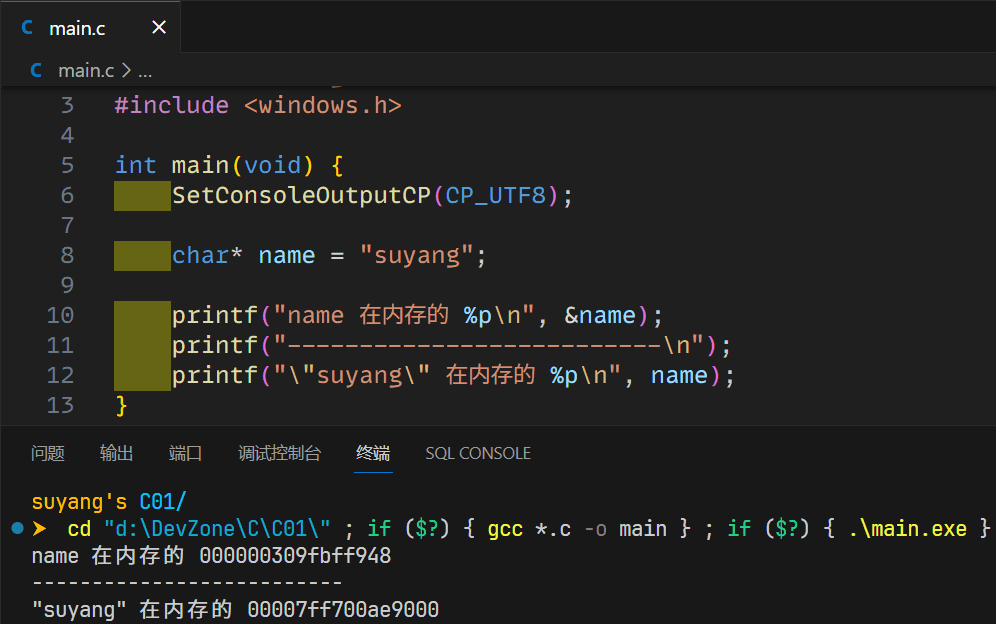
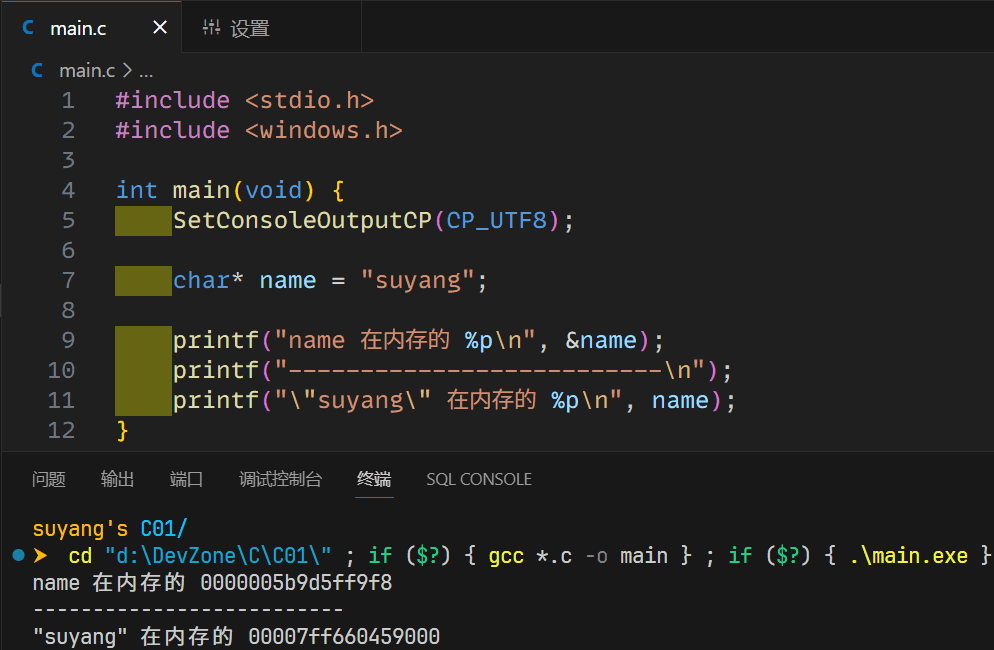
完成C语言数组字符串和指针字符串博客

diff --git a/public/Blogs/博客内容/C语言/数组字符串和指针字符串.html b/public/Blogs/博客内容/C语言/数组字符串和指针字符串.html
@@ -11,7 +11,7 @@
       </p>
       <p class="日期">
         <span class="日期前缀 前缀">日期：</span>
-        <span class="日期文本">待定</span>
+        <span class="日期文本">2024年3月28日</span>
       </p>
     </section>
     <section class="简介信息图像">
@@ -122,18 +122,18 @@
         字符串变量
         <ul class="分区列表">
           <li class="分区列表项">
-            <span class="行内专业名词">数组字符串</span>变量仅可<span
+            <span class="行内专业名词">数组字符串</span>变量就是数组，可<span
               class="强调"
-              >用作</span
-            >指针，但<span class="强调">不是</span
-            >指针类型，因此无法指向其它内存地址，<span class="强调">不可</span
+              >当做</span
+            >指针使用，但<span class="强调">不是</span>指针类型，<span
+              class="强调"
+              >不可</span
             >重新赋值。
           </li>
           <li class="分区列表项">
-            <span class="行内专业名词">指针字符串</span
-            >变量就是指针类型，因此可以指向其它内存地址，<span class="强调"
-              >可以</span
-            >重新赋值。
+            <span class="行内专业名词">指针字符串</span>变量<span class="强调"
+              >是</span
+            >指针类型，<span class="强调">可以</span>重新赋值。
           </li>
         </ul>
       </li>
@@ -147,9 +147,9 @@
             >，可以修改。
           </li>
           <li class="分区列表项">
-            <span class="行内专业名词">数组字符串数据</span>分配在内存<span
+            <span class="行内专业名词">指针字符串数据</span>分配在内存<span
               class="强调"
-              >代码段</span
+              >静态存储区</span
             >，无法修改。
           </li>
         </ul>
@@ -263,6 +263,19 @@
         ><span class="强调">错误: </span>向数组类型赋值</span
       >。<br />这再次证明了<span class="行内代码">name</span>是数组，不是指针。
     </p>
+    <p class="分区普通文本">我们还可以通过输出内存地址来看清楚这一点：</p>
+    <figure class="截图容器">
+      <img
+        src="/Images/Blogs/C语言/数组字符串和指针字符串/数组字符串变量自身地址和保存的地址.png"
+        alt="数组字符串变量自身地址和保存的地址"
+      />
+    </figure>
+    <p class="分区普通文本">
+      <span class="代码">name</span>自身的地址和保存的地址是一致的，说明<span
+        class="行内代码"
+        >name</span
+      >本身就是数组。
+    </p>
 
     <h3 class="分区标题 分区3级标题">修改数组字符串对象</h3>
     <p class="分区普通文本">数组对象分配在内存栈上，因此可以修改：</p>
@@ -311,11 +324,10 @@
     <p class="分区普通文本">
       看起来语法差别不大，但<span class="代码">name</span
       >的本质却不同。这里的<span class="行内代码">name</span
-      >是个真正的指针，它<span class="强调">指向</span
+      >是个真正的指针，分配在内存栈上，它<span class="强调">指向</span
       ><span class="行内代码">"suyang"</span>，但<span class="强调">不是</span
-      ><span class="行内代码">"suyang"</span>。而<span class="代码"
-        >"suyang"</span
-      >对象被分配在内存代码段上，无法修改。
+      ><span class="行内代码">"suyang"</span>。<span class="代码">"suyang"</span
+      >对象被分配在内存静态存储区，无法修改。
     </p>
     <figure class="截图容器">
       <img
@@ -364,12 +376,33 @@
         alt="修改指针字符串变量的本质"
       />
     </figure>
+    <p class="分区普通文本">这段代码可以用动画表示：</p>
+    <figure
+      class="截图容器"
+      style="
+        background:
+          linear-gradient(#5550 0%, #5550 100%) content-box,
+          linear-gradient(#aaa2 0%, #5552 95%) border-box;
+      "
+    >
+      <img
+        src="/Images/Blogs/C语言/数组字符串和指针字符串/修改指针字符串变量动画.webp"
+        alt="修改指针字符串变量动画"
+        style="background-color: #ffffff0a"
+      />
+    </figure>
+    <p class="分区普通文本">
+      修改<span class="代码">name</span>，并没有修改<span class="行内代码"
+        >"suyang"</span
+      >，而是在静态存储区生成一个新字符串<span class="行内代码">"Hacker"</span
+      >并更新<span class="行内代码">name</span>保存的内存地址。
+    </p>
 
     <h3 class="分区标题 分区3级标题">修改指针字符串对象</h3>
     <p class="分区普通文本">
       <span class="代码">char* name = "suyang"</span>里的<span class="行内代码"
         >"suyang"</span
-      >分配在内存代码段上，是无法修改的。
+      >分配在内存静态存储区，是无法修改的。
     </p>
     <pre class="line-numbers">
       <code class="lang-c">
@@ -381,5 +414,15 @@
         name[0] = 'H';
       </code>
     </pre>
+    <figure class="截图容器">
+      <img
+        src="/Images/Blogs/C语言/数组字符串和指针字符串/按数组方式修改指针.webp"
+        alt="按数组方式修改指针"
+      />
+    </figure>
+    <p class="分区普通文本">
+      此时<span class="行内代码">name</span
+      >已被改得不是指针了，因此运行程序之后什么结果也没有。
+    </p>
   </article>
 </div>

diff --git a/public/Blogs/blog-index.css b/public/Blogs/blog-index.css
@@ -65,7 +65,7 @@ body {
   justify-content: flex-start;
   align-items: flex-start;
   width: 450px;
-  height: calc(95vh - 75px);
+  height: calc(97.5vh - 75px);
   overflow-y: auto;
 }
 
@@ -1748,7 +1748,7 @@ body {
 }
 
 .代码 .强调{
-  color: #ff6969;
+  color: #ff84a1;
 }
 
 .附加说明 .强调 {
